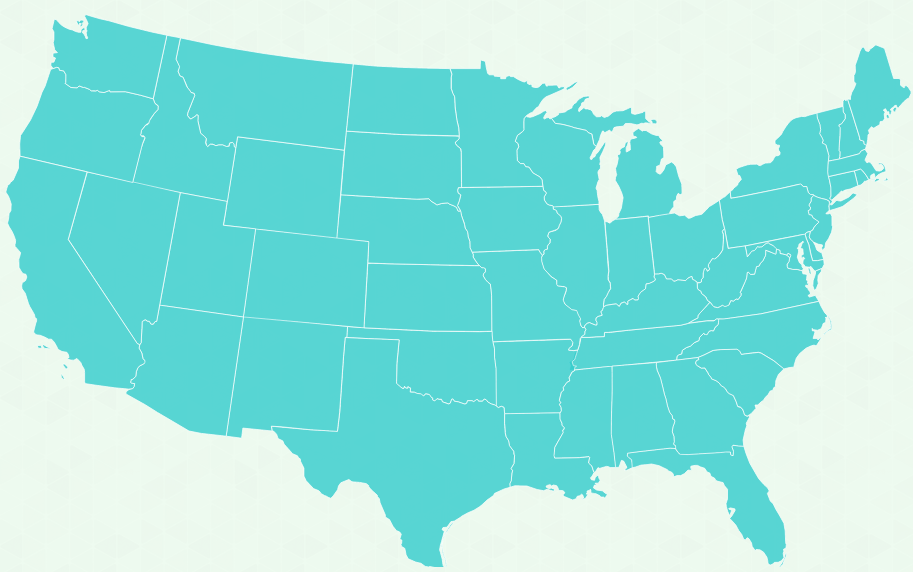
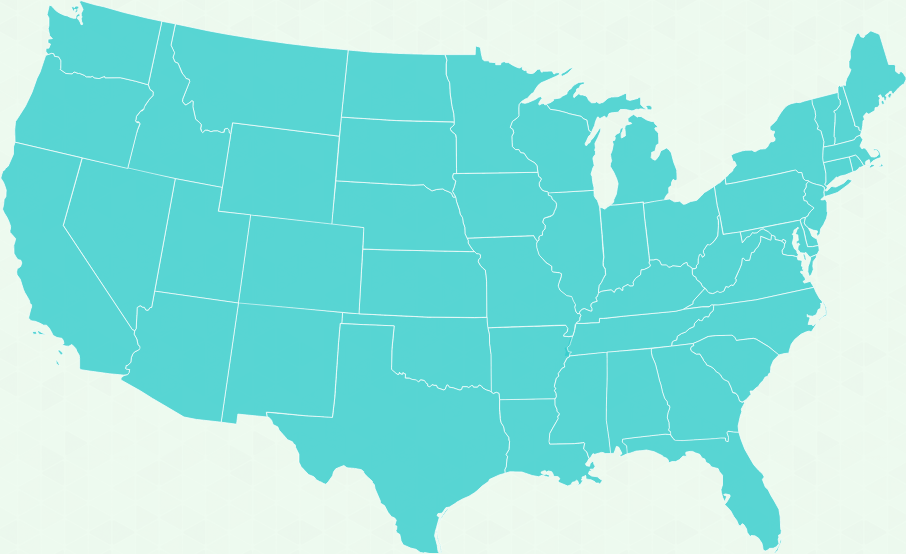
map image is scaled down

diff --git a/sites.html b/sites.html
@@ -26,7 +26,7 @@
 		        <h1>Sites</h1>
 		        <h4 id="trip">Pre-WWW 2012</h4>
 	    	</div>
-	        <img id="map-icon" src="images/map.png">
+	        <img id="map-icon" src="images/small-map.png">
         </div>
          
          <div id="map-canvas" style="float: left; width: 940px; height: 560px;">
@@ -210,11 +210,8 @@ window.onload = function () {
 
 	function addTableRow(site, cityClass) {
 		var Site = sites[site];
-
-
-		alert(Site['image']);
 	
-		var tableRow = '<tr><td class="pic-column"><img src="" ></td><td ><h4>' + site + '</h4><br /> Our Lady’s Inn provides pregnant women and their children shelter and hope for a new life. Since 1982, this site has served as a life-affirming alternative to abortion for more than 5,000 women who have chosen life for their unborn babies. For more than 30 years these families have been sheltered and supported in their efforts to live healthy and productive lives, attain educational goals, gain employment and secure stable housing. <i>Volunteer responsibilities at this site may include childcare, meal preparation, working at the resale shop, and maintenance work both at the St. Louis and St. Charles sites.</i><br /><br /><a href="http://www.ourladysinn.org/">' + site + ' Website</a></td></tr>';
+		var tableRow = '<tr><td class="pic-column"><img src="' + Site['image'] + '" ></td><td ><h4>' + site + '</h4><br />' + Site['site-description'] + '<i>' + Site['activity-description'] + '</i><br /><br /><a href="' + Site['url'] + '">' + site + ' Website</a></td></tr>';
 		$('table.' + cityClass).append(tableRow);
 	}
 

diff --git a/scripts/map/map-coordinates.js b/scripts/map/map-coordinates.js
@@ -106,8 +106,7 @@ var records = {
 			'Pace School',
 			'Tree Pittsburgh'
 		],
-		
-
+	
 		'Madison': [
 			'Community GroundWorks',
 			'Middleton Outreach Ministry and Habitat for Humanity'
@@ -123,13 +122,10 @@ var records = {
 			'The Nest'
 		],
 		
-		
-		
 		'StLouis': [
 			'Our Lady\'s Inn',
 			'Kingdom House'
 		]
-		
 	}
 }
 

diff --git a/css/asb.css b/css/asb.css
@@ -143,7 +143,6 @@ html, body {
 }
 
 #map-icon {
-	height: 80px;
 	float: right; 
 	margin-right: 80px;
 	cursor: pointer;
